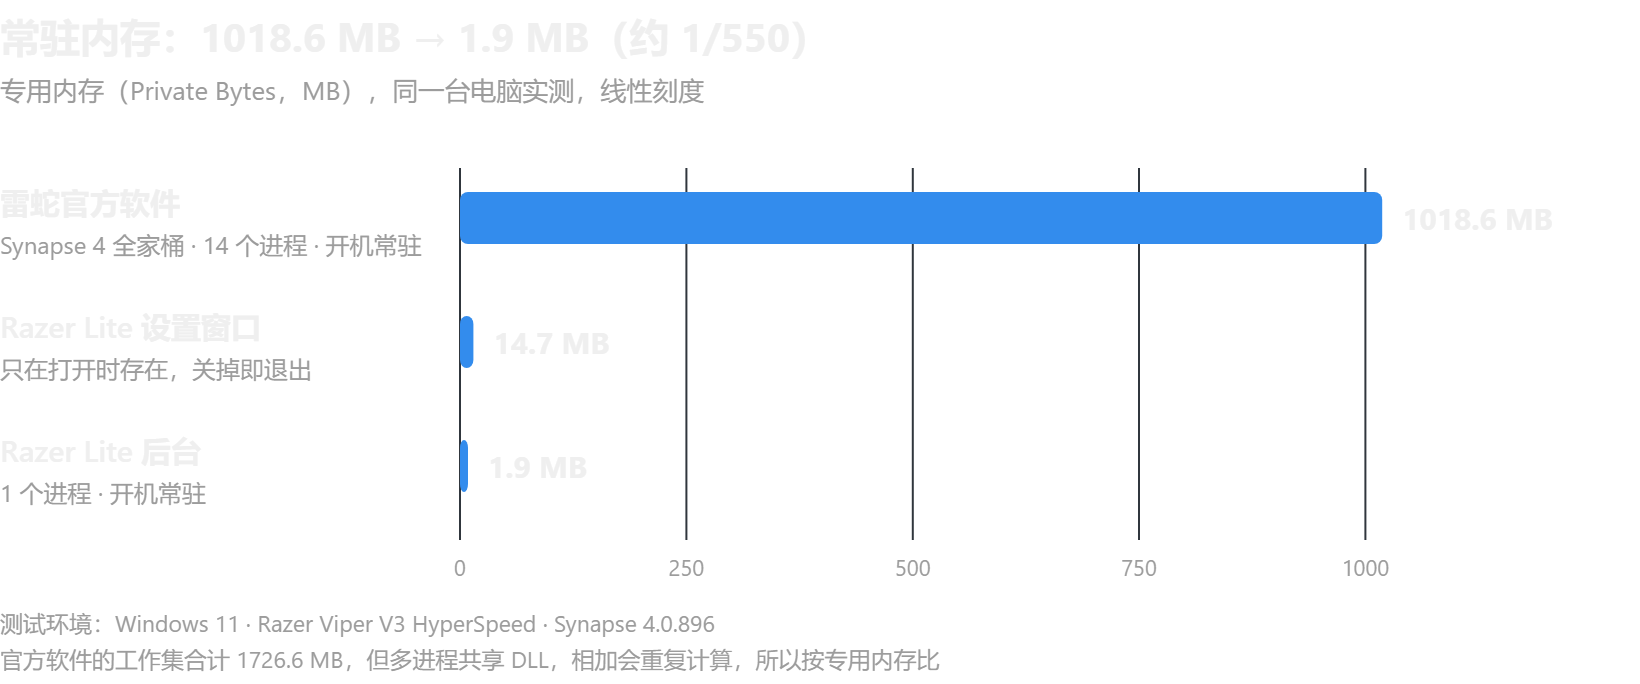
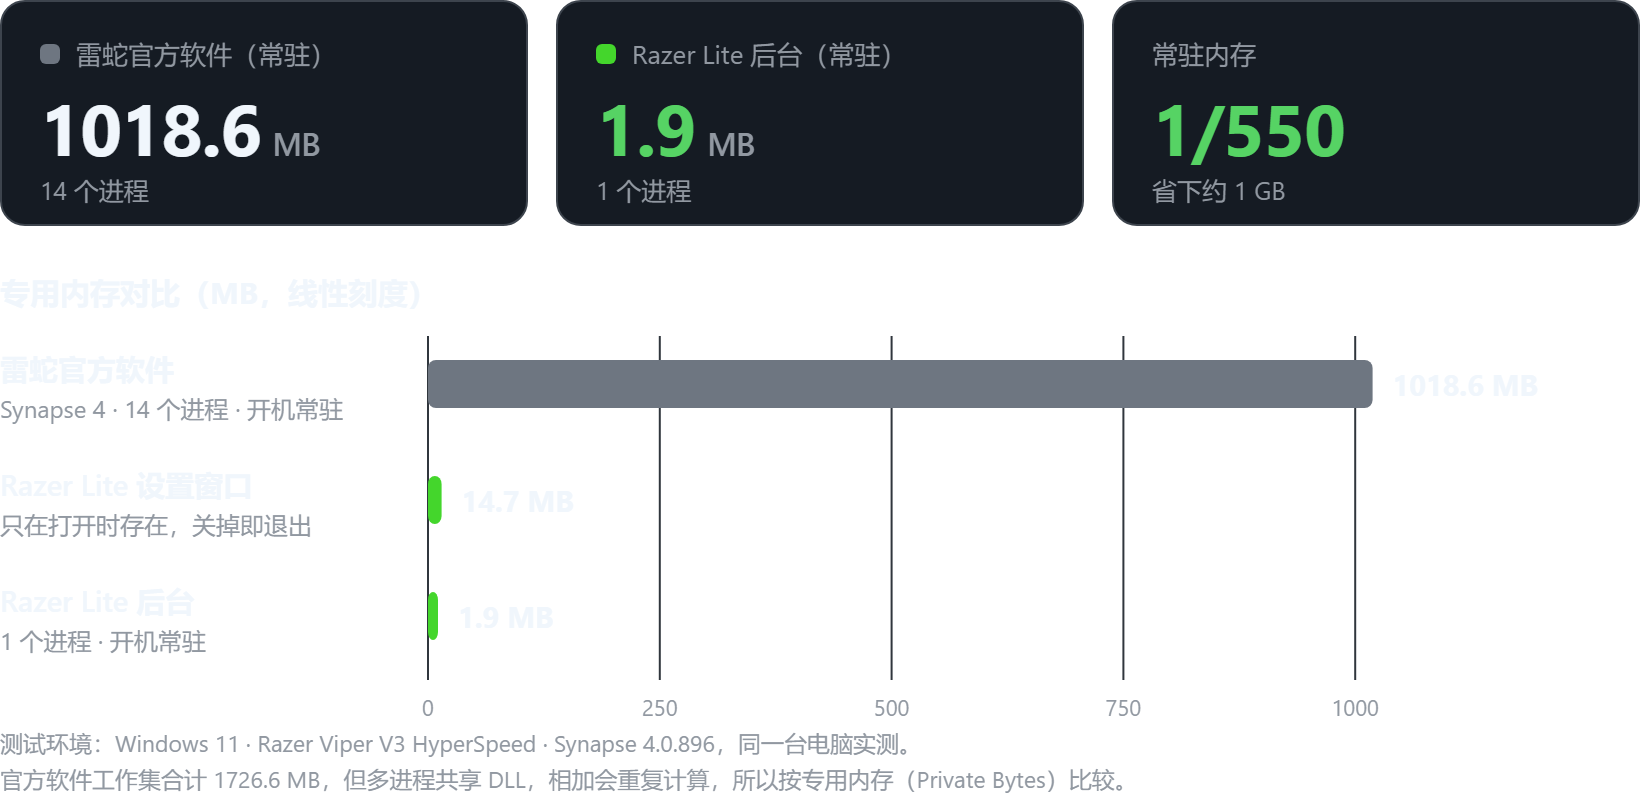
README 美化：标题区、徽章、界面截图、新版内存对比图

diff --git a/README.md b/README.md
@@ -1,11 +1,20 @@
+<div align="center">
+
+<img src="docs/logo.png" width="96" alt="Razer Lite">
+
 # Razer Lite
+
+**不装 Razer Synapse，也能用雷蛇鼠标的基础功能**
+
+![AI slop](https://img.shields.io/badge/AI-slop-ff69b4?style=flat-square)
+![Rust](https://img.shields.io/badge/Rust-000000?style=flat-square&logo=rust&logoColor=white)
+![Windows](https://img.shields.io/badge/Windows-10%20%2F%2011-0078D4?style=flat-square)
+![常驻内存](https://img.shields.io/badge/%E5%B8%B8%E9%A9%BB%E5%86%85%E5%AD%98-1.9%20MB-44D62C?style=flat-square)
+
+</div>
 
 > [!WARNING]
 > **这是个 AI slop。** 一句话让 AI 生成的，个人写着玩，代码没认真审过。不保证能用，用坏了概不负责。与 Razer 官方无关。
-
-不装 Razer Synapse 也能用雷蛇鼠标的基础功能：侧键 / 滚轮映射、DPI 档位、回报率、休眠时间、电量提醒、开机静默自启、固件更新（下载并校验官方更新程序后运行）。Rust 写的，连雷蛇驱动都不用装，用 Windows 自带的 HID 驱动和鼠标通信。
-
-只在 Razer Viper V3 HyperSpeed 上测过。
 
 ## 内存占用
 
@@ -13,6 +22,23 @@
   <source media="(prefers-color-scheme: dark)" srcset="docs/memory-dark.png">
   <img alt="常驻内存对比（专用内存）：雷蛇官方软件 1018.6 MB（14 个进程）；Razer Lite 后台 1.9 MB（1 个进程）；Razer Lite 设置窗口 14.7 MB（仅打开时）" src="docs/memory-light.png" width="820">
 </picture>
+
+## 截图
+
+<p align="center">
+  <img src="docs/screenshot-buttons.png" width="49%" alt="按键映射">
+  <img src="docs/screenshot-perf.png" width="49%" alt="灵敏度">
+</p>
+
+## 能干什么
+
+- **侧键 / 滚轮映射**：快捷键（可录制）、输入文字、打开程序、DPI 离合，单击和长按分开设，还能按前台程序切换方案
+- **硬件设置**：DPI 档位、回报率、休眠时间，直接写进鼠标板载内存
+- **日常**：托盘电量、低电量提醒、开机静默自启
+- **固件更新**：下载雷蛇官方更新程序，校验签名后运行
+- **不要雷蛇驱动**：用 Windows 自带的 HID 驱动和鼠标通信
+
+只在 Razer Viper V3 HyperSpeed 上测过。
 
 ## 构建安装
 
